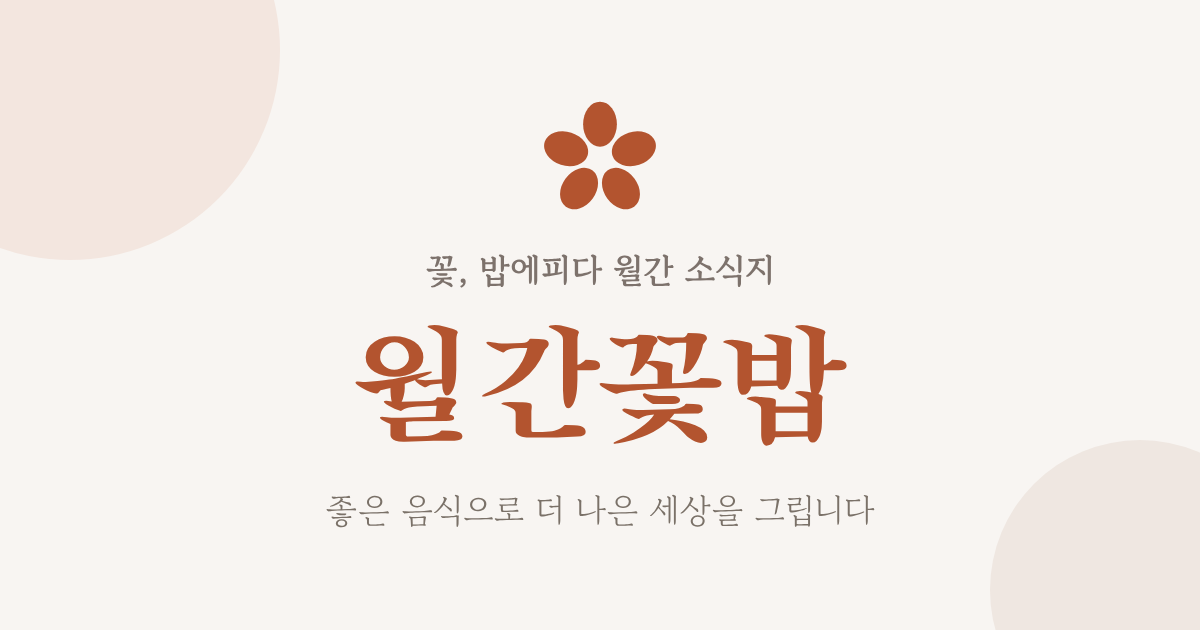
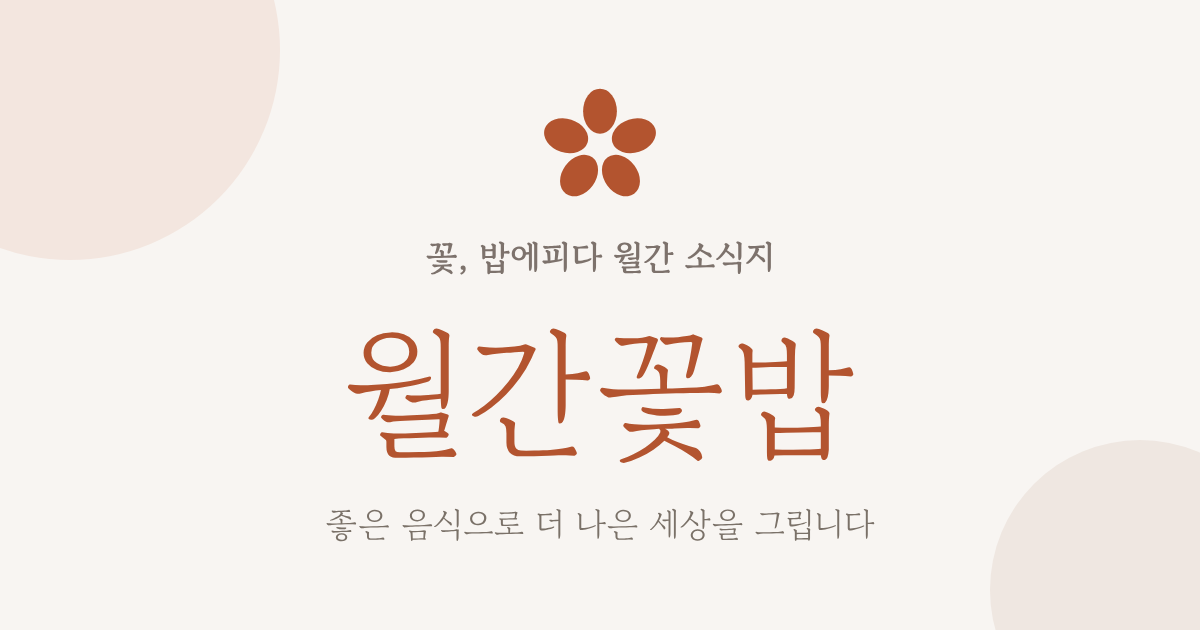
제목 서체를 고운바탕으로 변경 (아임웹 사이트와 통일)
Claude-Session: https://claude.ai/code/session_01M2r927p5dU6Ask8XNcTcW4

diff --git a/assets/style.css b/assets/style.css
@@ -10,7 +10,7 @@
   --leaf: #b3542f;
   --leaf-soft: #f3e6df;
   --serif: "Gowun Batang", "Nanum Myeongjo", serif;
-  --brush: "Song Myung", "Gowun Batang", serif;
+  --brush: "Gowun Batang", "Nanum Myeongjo", serif;
   --sans: "Pretendard Variable", Pretendard, -apple-system, "Apple SD Gothic Neo", "Malgun Gothic", sans-serif;
 }
 * { box-sizing: border-box; }
@@ -30,7 +30,7 @@ img { max-width: 100%; height: auto; }
   display: flex; align-items: center; justify-content: space-between;
 }
 .brand { display: flex; align-items: center; gap: 8px; text-decoration: none; color: var(--accent); font-family: var(--brush); font-size: 22px; }
-.header-link { color: var(--muted); text-decoration: none; font-size: 15px; }
+.header-link { color: var(--ink); text-decoration: none; font-size: 16px; font-family: var(--serif); }
 
 /* 첫 화면 */
 .hero { text-align: left; padding: 44px 0 32px; }

diff --git a/_includes/head.html b/_includes/head.html
@@ -25,6 +25,6 @@
 
 <link rel="preconnect" href="https://fonts.googleapis.com">
 <link rel="preconnect" href="https://fonts.gstatic.com" crossorigin>
-<link rel="stylesheet" href="https://fonts.googleapis.com/css2?family=Gowun+Batang:wght@400;700&family=Song+Myung&display=swap">
+<link rel="stylesheet" href="https://fonts.googleapis.com/css2?family=Gowun+Batang:wght@400;700&display=swap">
 <link rel="stylesheet" href="https://cdn.jsdelivr.net/gh/orioncactus/pretendard@v1.3.9/dist/web/variable/pretendardvariable-dynamic-subset.min.css">
 <link rel="stylesheet" href="{{ '/assets/style.css' | relative_url }}">
